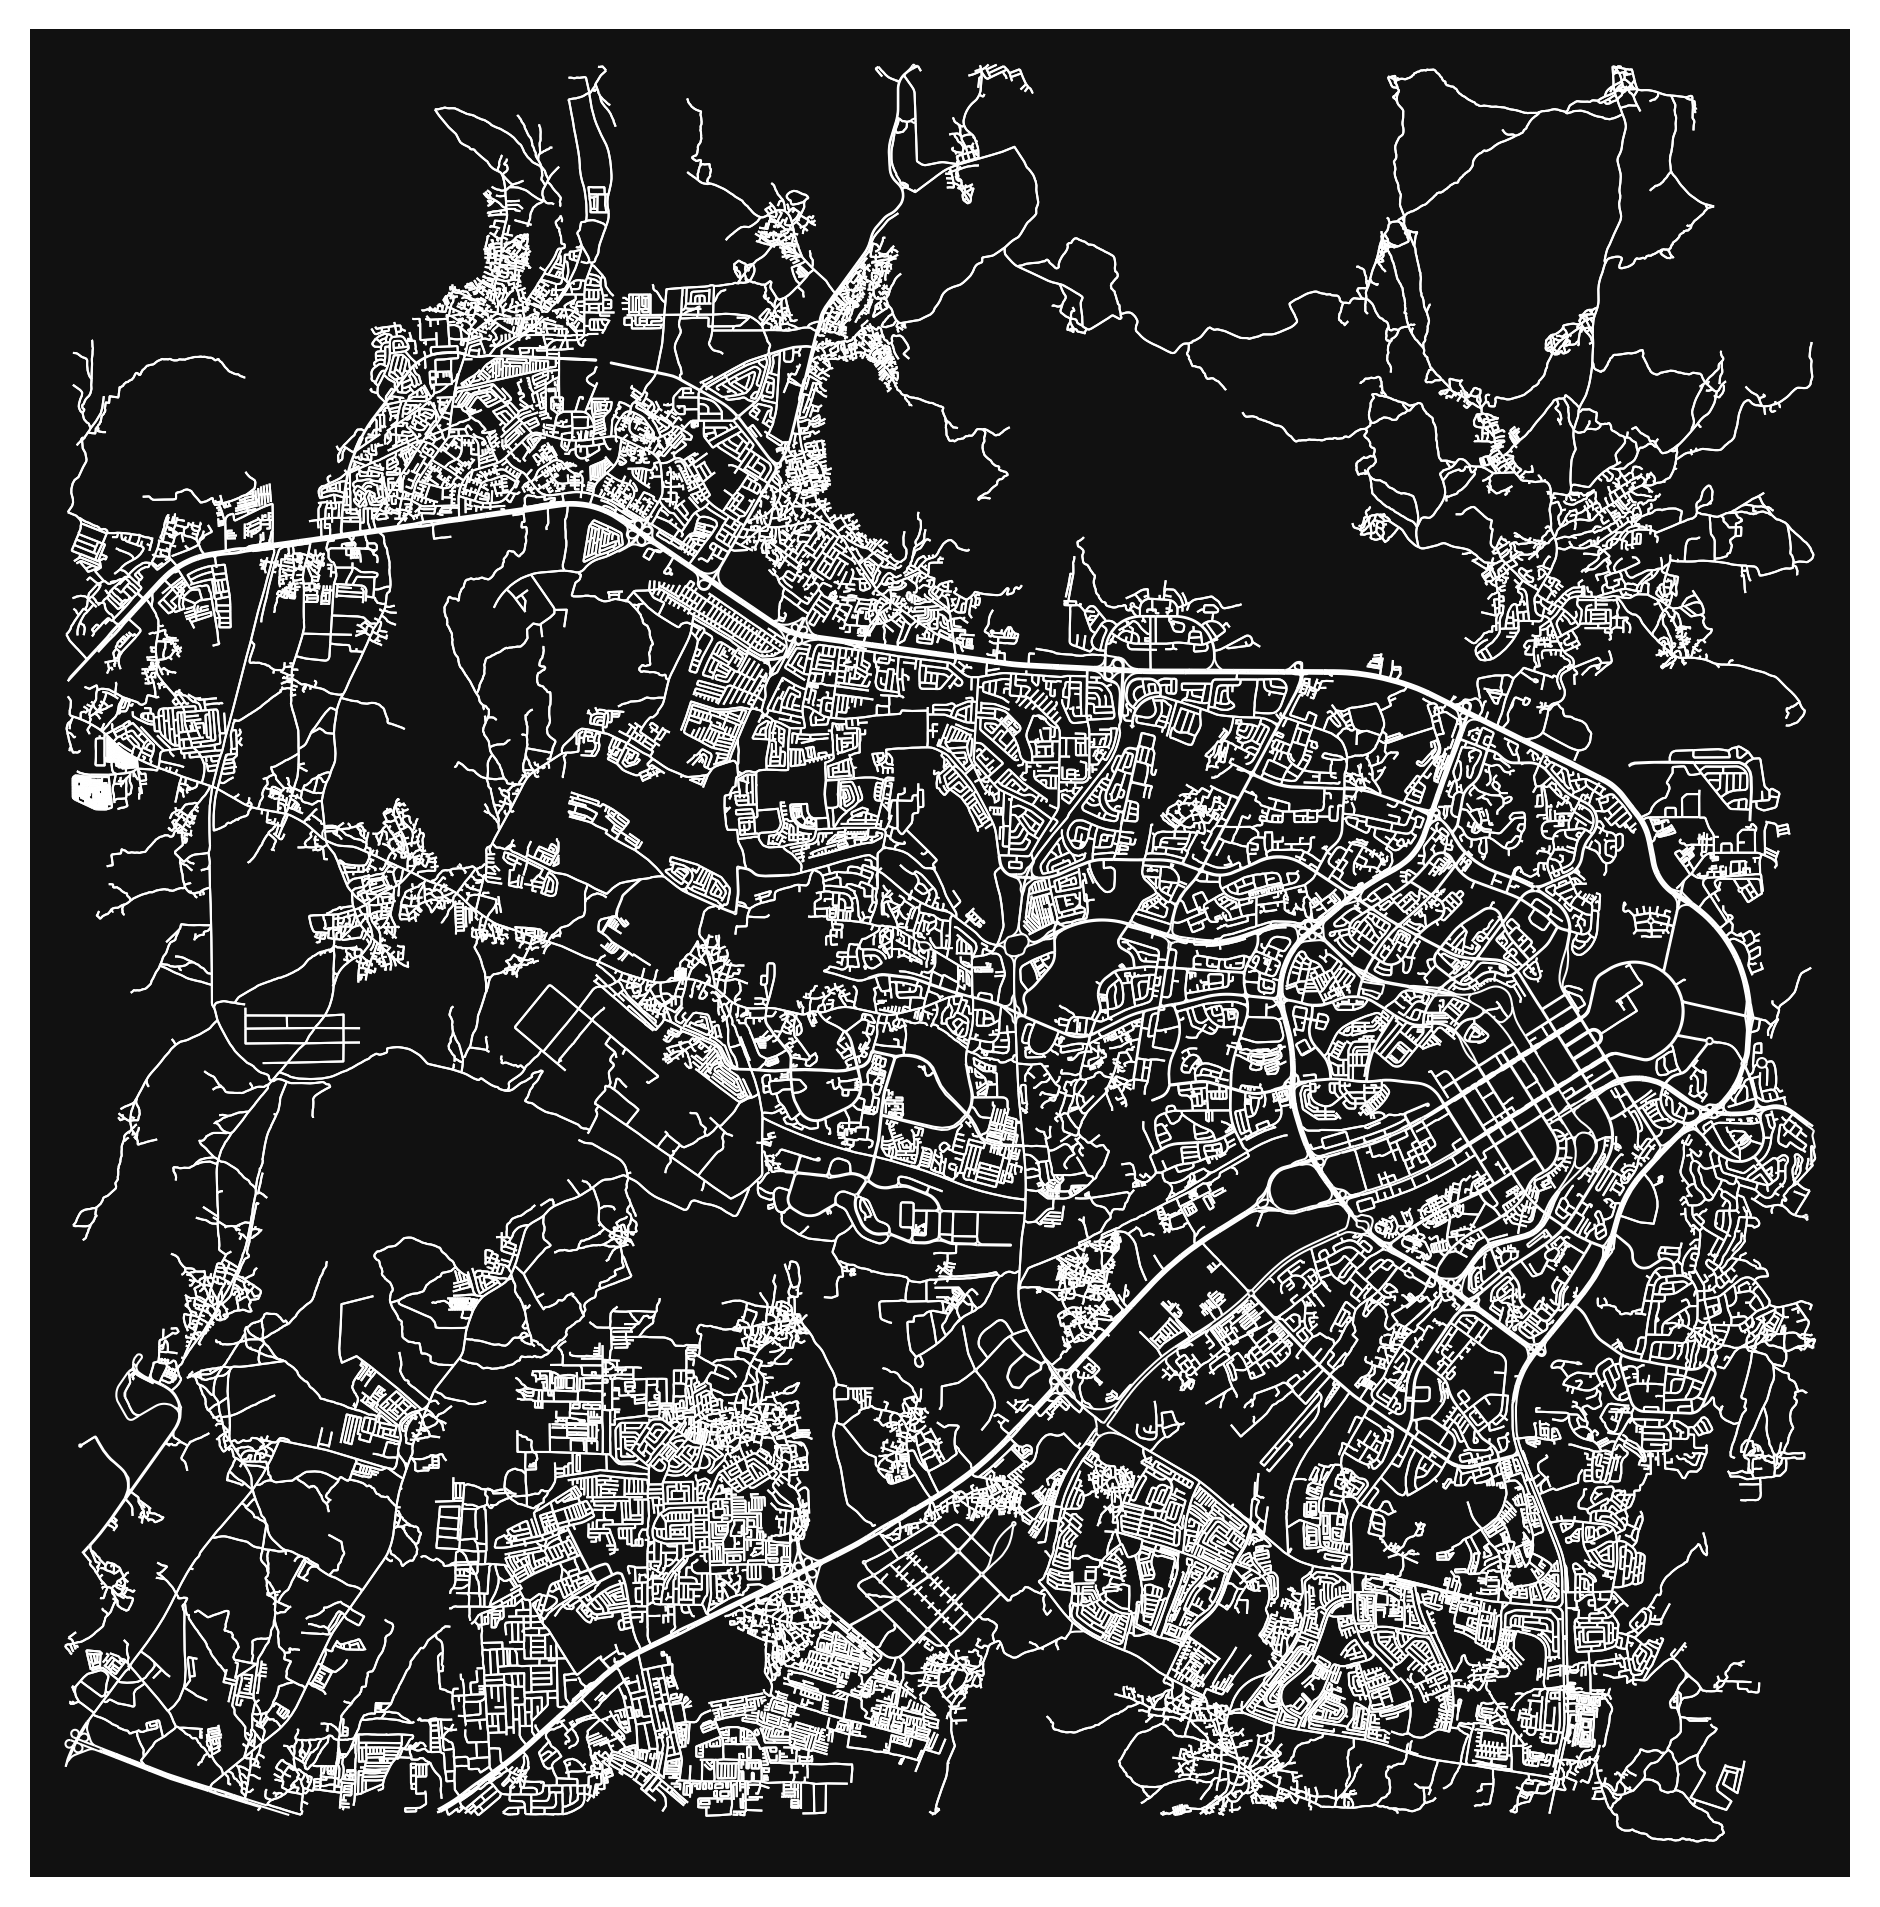
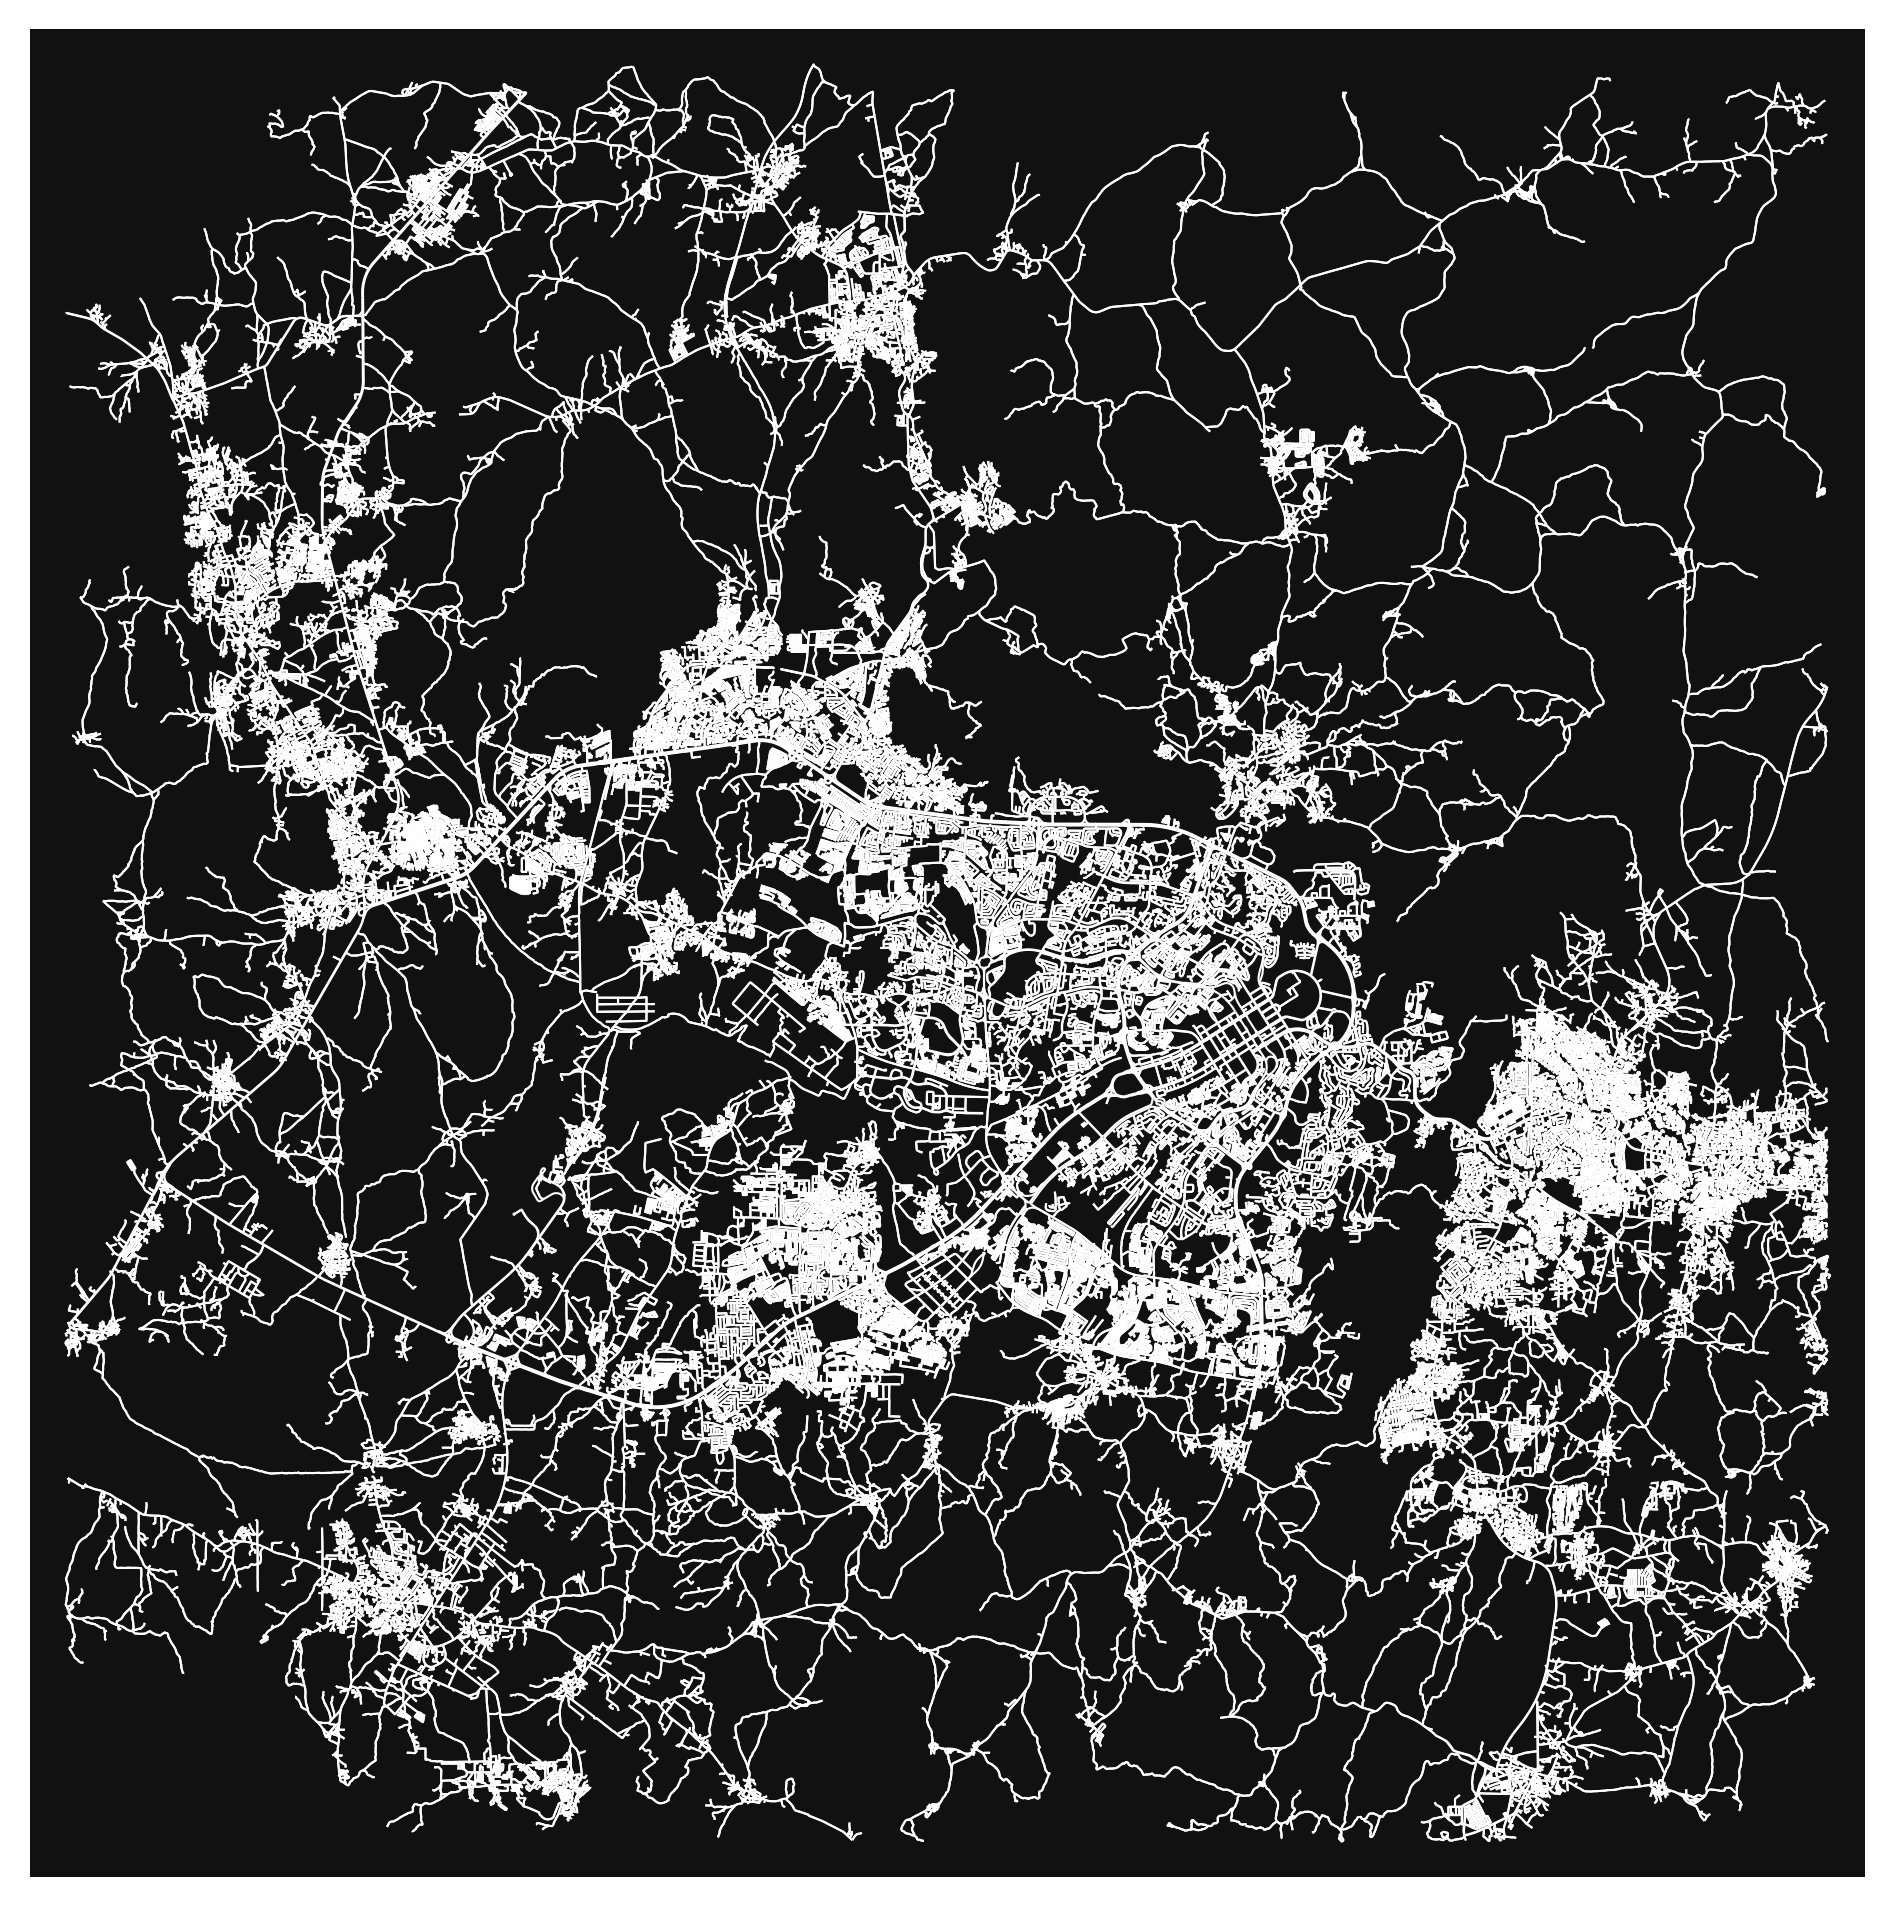
Expand scraping radius to 30km to capture wider Abuja region

diff --git a/download_abuja.py b/download_abuja.py
@@ -3,7 +3,7 @@ import matplotlib.pyplot as plt
 
 def main():
     center_point = (9.0765, 7.3986)
-    dist_meters = 15000
+    dist_meters = 30000
     print(f"Downloading street network for Abuja around {center_point} with a radius of {dist_meters}m...")
     
     # Download the street network for driving
